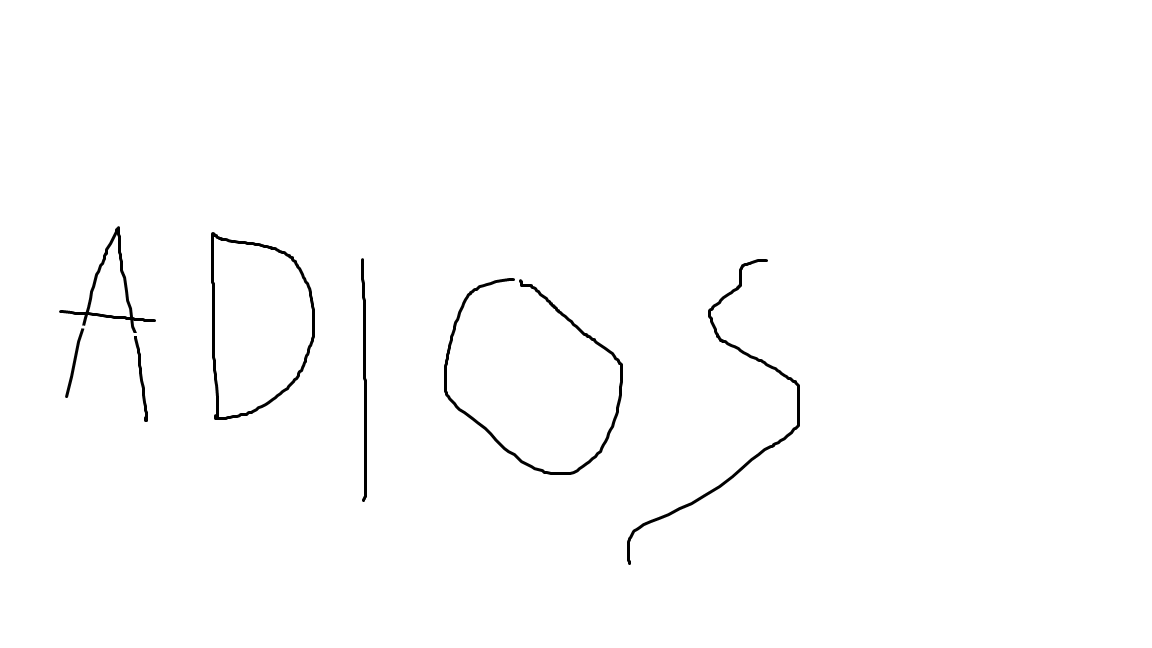
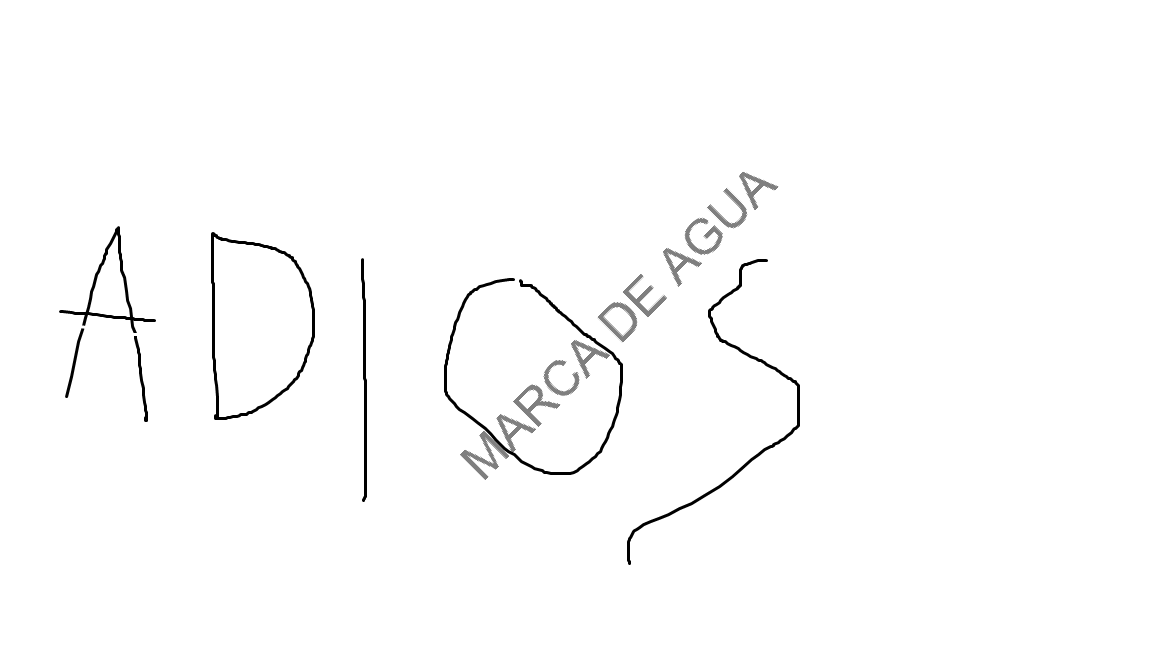
Implementacion de marcas de agua en img y diferenciacion entre img y videos

Changed region(s): [[0.5, 0.2469, 0.6875, 0.5247], [0.4062, 0.5247, 0.5312, 0.7407]]

diff --git a/Aplicacion.py b/Aplicacion.py
@@ -2,7 +2,46 @@ import socket
 import threading
 from cryptography.hazmat.primitives.ciphers import Cipher, algorithms, modes
 from cryptography.hazmat.primitives import padding
-from PIL import Image
+from PIL import Image, ImageDraw, ImageFont, UnidentifiedImageError
+from pathlib import Path
+
+def marcar(imagen):
+    # Abrir la imagen base y asegurarse de que esté en modo RGBA
+    imagen = Image.open(imagen).convert("RGBA")
+
+    # Crear una nueva imagen de marca de agua en RGBA
+    marca_agua = Image.new("RGBA", imagen.size, (0, 0, 0, 0))
+    dibujar = ImageDraw.Draw(marca_agua)
+
+    # Definir las propiedades de la fuente y el texto
+    tamaño_fuente = 50  # Ajustar el tamaño según sea necesario
+    ruta_fuente = "arial.ttf"  # Reemplazar con la ruta a una fuente .ttf en tu sistema
+    fuente = ImageFont.truetype(ruta_fuente, tamaño_fuente)
+    texto_marca_agua = "MARCA DE AGUA"
+
+    # Calcular la posición del texto
+    caja_texto = dibujar.textbbox((0, 0), texto_marca_agua, font=fuente)
+    x = 450  # + derecha      - izquierda
+    y = 450  # + abajo        - arriba
+
+    # Dibujar el texto en la marca de agua
+    color_relleno = (0, 0, 0, 128)  # Negro semitransparente
+    dibujar.text((x, y), texto_marca_agua, font=fuente, fill=color_relleno)
+
+    # Crear una imagen de marca de agua rotada
+    marca_agua_rotada = Image.new("RGBA", imagen.size, (0, 0, 0, 0))
+    dibujar_rotada = ImageDraw.Draw(marca_agua_rotada)
+    dibujar_rotada.text((x, y), texto_marca_agua, font=fuente, fill=color_relleno)
+
+    # Rotar la marca de agua
+    marca_agua_rotada = marca_agua_rotada.rotate(45, center=(x, y))
+
+    # Combinar las imágenes usando alpha_composite
+    resultado = Image.alpha_composite(imagen, marca_agua_rotada)
+
+    # Guardar la imagen final
+    resultado.save('carpeta_del_cliente/contenido_recibido_'+message[24:])
+
 
 def decifrador(cosa_que_queremos_descifrar, key):
     iv = b'\x00' * 16  # Debe coincidir con el IV del servidor en este ejemplo simplificado
@@ -50,6 +89,12 @@ def escuchar():
         elif identificador_principio != b"<CONTENIDO>" and procesar_imagen == "encendido":
             
             with open('carpeta_del_cliente/contenido_recibido_'+message[24:], 'wb') as file:
+                
+                # Ruta del archivo
+                ruta = Path('carpeta_del_cliente/contenido_recibido_'+message[24:])
+                # Obtener la extensión
+                extension = ruta.suffix
+                #print(f"La extensión del archivo es: {extension}")
                 
 
                 if identificador_final == b'<FIN>':
@@ -103,6 +148,16 @@ def escuchar():
                     print(message[24:]+" procesando paquete... ",len(data),"\n")
                     
                     print(message[24:]+ " recibid@ \n")
+                    
+                    try:
+                        marcar('carpeta_del_cliente/contenido_recibido_'+message[24:])
+                    except UnidentifiedImageError:
+                        pass
+
+                    
+                    
+                    
+                    
                     print("-"*40+"\n Sigue escribiendo:")
                     procesar_imagen= "apagado"
                     

diff --git a/Servidor.py b/Servidor.py
@@ -4,6 +4,7 @@ from cryptography.hazmat.primitives.ciphers import Cipher, algorithms, modes
 from cryptography.hazmat.primitives import padding
 import os
 
+
 def cifrador(cosa_que_queremos_cifrar): # Si es una imagen no hay que tocarlo, si es un mensaje hay que hacerle .encode() antes de entrar a la función
     # Preparar la clave y el cifrador AES en modo CBC (más seguro que ECB)
     key = b'\xec\x13x\xa2z\xc7\x8e@>\x1b\xaa\r\x84\x03\x1c\x05V\x95\x80\xda\nN\xed\x1fbk\xf1z\n\x05tN'[:32]  # Asegurar que sea de 256 bits
